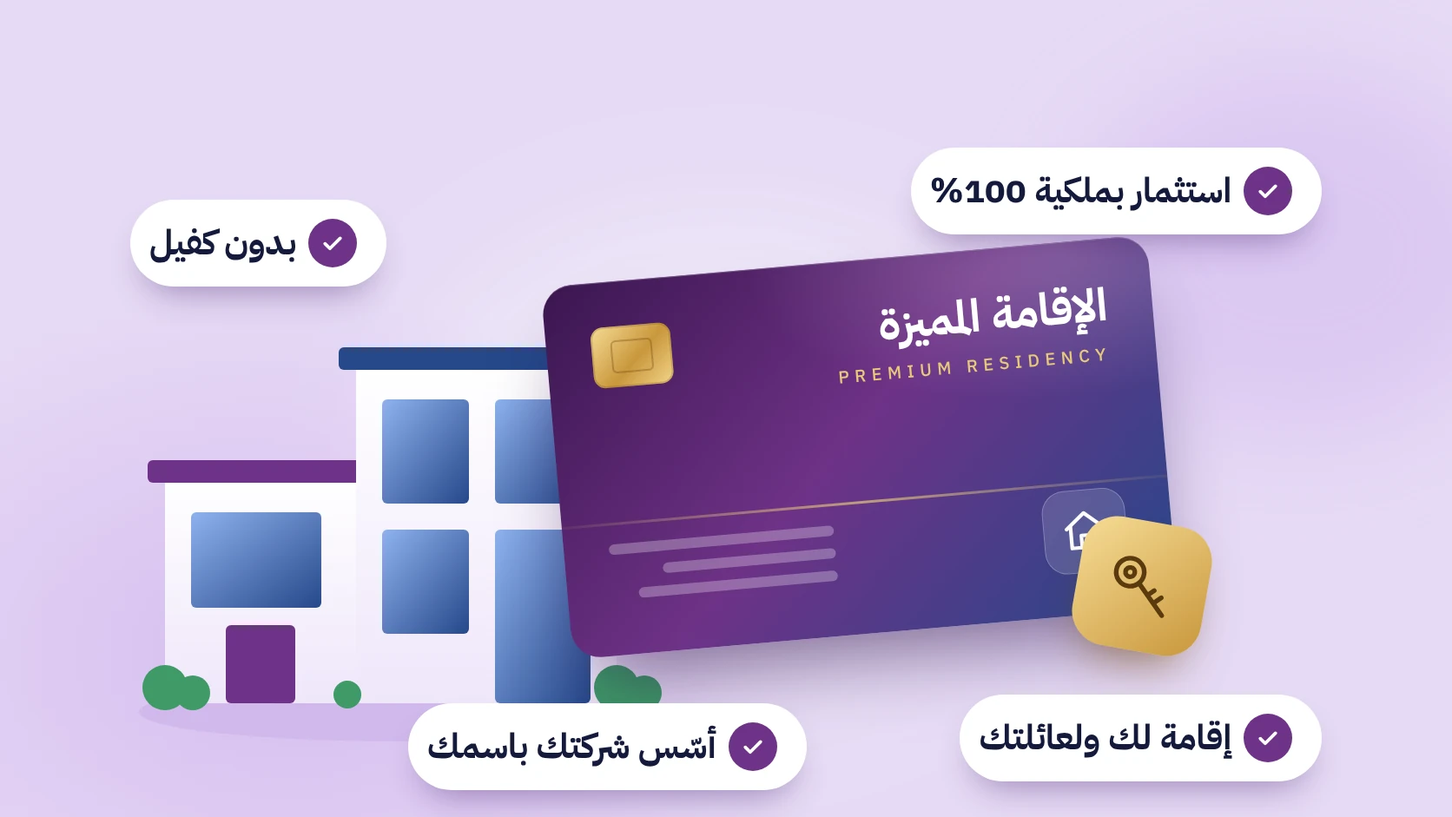
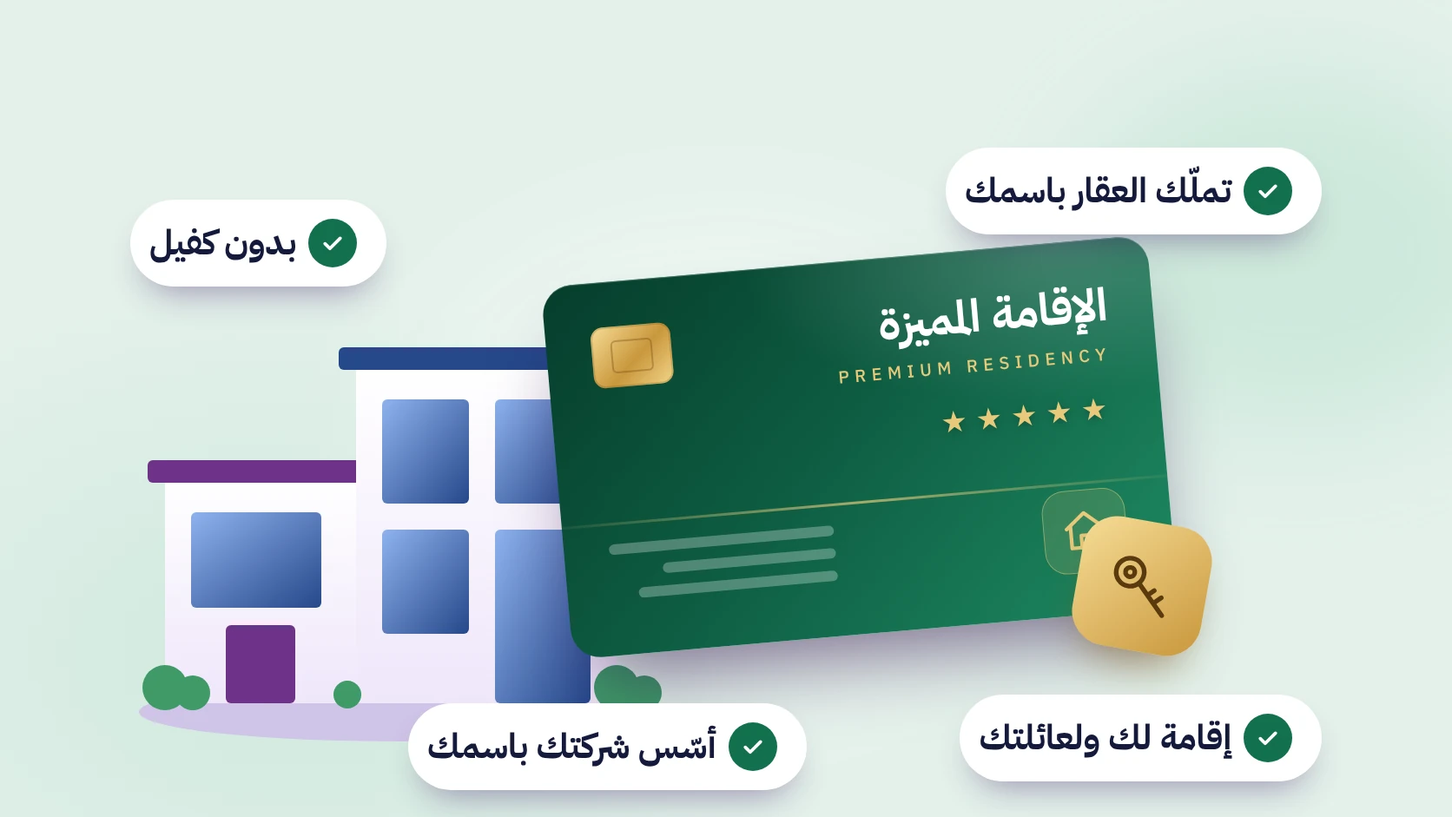
Premium Residency page: general audience, real benefits, green identity, file-review steps
Claude-Session: https://claude.ai/code/session_01NBvG3p8pHLfApGAyQMSkQa

diff --git a/pr/index.html b/pr/index.html
@@ -10,10 +10,10 @@ j=d.createElement(s),dl=l!='dataLayer'?'&l='+l:'';j.async=true;j.src=
 <!-- End Google Tag Manager -->
 <meta charset="utf-8">
 <meta name="viewport" content="width=device-width, initial-scale=1, viewport-fit=cover">
-<title>استثمر واحصل على الإقامة المميزة في السعودية | مرسى الأعمال</title>
+<title>الإقامة المميزة في السعودية لك ولعائلتك | مرسى الأعمال</title>
 <link rel="preload" as="image" href="../assets/img/hero-1600.webp" media="(min-width:721px)" fetchpriority="high">
 <link rel="preload" as="image" href="../assets/img/hero-mobile.webp" media="(max-width:720px)" fetchpriority="high">
-<meta name="description" content="استثمر في السعودية واحصل على الإقامة المميزة لك ولعائلتك: بدون كفيل، عبر الاستثمار وتأسيس شركتك بملكية أجنبية 100%. تحقّق من أهليتك مجانًا.">
+<meta name="description" content="احصل على الإقامة المميزة في السعودية لك ولعائلتك: عبر الاستثمار وتأسيس شركتك، أو مسار الكفاءات، أو دون استثمار. تحقّق من أهليتك مجانًا.">
 <meta name="theme-color" content="#26488A">
 <link rel="icon" href="../assets/img/fav.png">
 <link rel="preconnect" href="https://fonts.googleapis.com">
@@ -747,6 +747,10 @@ body.bar-on .wa-float{opacity:1;visibility:visible;transform:none}
 .cc-list .none{color:var(--muted);cursor:default;justify-content:center}
 .form-card .phone-row .cc-pick .cc-btn{width:auto;min-width:112px;padding:0 30px 0 12px;font-size:15px}
 
+.ftr .ftr-disc{max-width:none;margin:36px 0 0;padding:20px 0 0;border-top:1px solid rgba(255,255,255,.12);font-size:14px;line-height:1.9;color:rgba(255,255,255,.82)}
+.ftr-disc + .ftr-bottom{margin-top:20px}
+@media (max-width:720px){.ftr .ftr-disc{font-size:13px;text-align:center;margin-top:28px}}
+
 .hero-label{display:inline-block;background:rgba(255,255,255,.16);border:1px solid rgba(255,255,255,.4);-webkit-backdrop-filter:blur(6px);backdrop-filter:blur(6px);color:#fff;font-size:14px;font-weight:600;line-height:1.5;padding:7px 16px;border-radius:999px;margin-bottom:16px}
 @media (max-width:720px){.hero-label{order:1;align-self:center;font-size:12.5px;padding:6px 12px;margin-bottom:10px;text-align:center}}
 .hero h1 .hero-hl{font-style:normal;color:#fff;margin-top:10px;text-shadow:none;padding:.04em .45em .16em}
@@ -754,6 +758,9 @@ body.bar-on .wa-float{opacity:1;visibility:visible;transform:none}
 .hero h1 .hero-top .hero-hl{margin-top:0}
 .pr-grid{display:grid;grid-template-columns:repeat(4,minmax(0,1fr));gap:18px}
 .pr-grid .why-card h3{margin-top:14px;font-size:18px}
+.pr-ben .pr-grid{grid-template-columns:repeat(3,minmax(0,1fr))}
+@media (max-width:1000px){.pr-ben .pr-grid{grid-template-columns:repeat(2,minmax(0,1fr))}}
+@media (max-width:720px){.pr-ben .pr-grid{grid-template-columns:minmax(0,1fr)}}
 .pr-ben .why-card{background:#fff;border:1px solid var(--line);padding:30px 26px;box-shadow:0 24px 50px -40px rgba(20,26,60,.4)}
 .pr-grid .why-card p{font-size:15px}
 .pr-ic{width:48px;height:48px;border-radius:14px;background:var(--lav-2);display:grid;place-items:center;color:var(--purple)}
@@ -780,12 +787,15 @@ body.bar-on .wa-float{opacity:1;visibility:visible;transform:none}
 @media (max-width:720px){.cmp{margin-top:26px;border-radius:18px}.cmp-r{grid-template-columns:1fr 1fr}.cmp-k{grid-column:1/-1;padding:14px 16px 4px!important;background:#fff}.cmp-r>div{padding:10px 14px 14px;font-size:14px}.cmp-h .cmp-k{display:none}.cmp-h>div{padding:12px 14px;font-size:14px}}
 @media (max-width:1000px){.pr-grid{grid-template-columns:repeat(2,minmax(0,1fr))}}
 @media (max-width:720px){.pr-grid{grid-template-columns:minmax(0,1fr);gap:12px}}
-
-.ftr .ftr-disc{max-width:none;margin:36px 0 0;padding:20px 0 0;border-top:1px solid rgba(255,255,255,.12);font-size:14px;line-height:1.9;color:rgba(255,255,255,.82)}
-.ftr-disc + .ftr-bottom{margin-top:20px}
-@media (max-width:720px){.ftr .ftr-disc{font-size:13px;text-align:center;margin-top:28px}}
+/* PR green identity */
+.hl{background:linear-gradient(135deg,#1E8A62 0%,#0E5C42 100%)!important;box-shadow:0 12px 26px -14px rgba(14,92,66,.7)!important}
+.eyebrow{color:#13704F}
+.pr-ic{background:#E3F3EC!important;color:#13704F!important}
+.cmp-h .cmp-p{background:#13704F!important;color:#fff!important}
+.cmp-p{color:#0E5C42!important;background:rgba(227,243,236,.6)!important}
+.cmp-p .mk{background:#13704F!important}
 </style>
-<script type="application/ld+json">{"@context": "https://schema.org", "@type": "FAQPage", "mainEntity": [{"@type": "Question", "name": "ما هي الإقامة المميزة في السعودية؟", "acceptedAnswer": {"@type": "Answer", "text": "نظام إقامة يمنح المستثمر وعائلته الإقامة في المملكة دون كفيل، مع مزايا مثل الإعفاء من المقابل المالي للمرافقين، والخروج والعودة دون تأشيرة، وحرية ممارسة الأعمال والاستثمار."}}, {"@type": "Question", "name": "ما الفرق بينها وبين الإقامة العادية؟", "acceptedAnswer": {"@type": "Answer", "text": "في الإقامة العادية تحتاج إلى كفيل، وتدفع المقابل المالي عن مرافقيك، وتستخرج تأشيرة خروج وعودة لكل سفرة. أما الإقامة المميزة فتعفيك من كل ذلك، وتمنحك حرية تغيير العمل وممارسة أعمالك واستثمارك."}}, {"@type": "Question", "name": "كيف أحصل على الإقامة المميزة عن طريق تأسيس شركة؟", "acceptedAnswer": {"@type": "Answer", "text": "تستثمر وتؤسس شركتك في المملكة بملكية أجنبية 100%، ومع تحقيق شروط مسار المستثمر تصبح مؤهلًا للإقامة المميزة لك ولعائلتك. نرافقك من دراسة الاستثمار وتأسيس الشركة حتى صدور الإقامة."}}, {"@type": "Question", "name": "ما شروط الإقامة المميزة عن طريق الاستثمار؟", "acceptedAnswer": {"@type": "Answer", "text": "من أبرزها: استثمار فعلي في شركتك داخل المملكة وفق الحد الأدنى للمسار، وتوفير وظائف خلال أول سنتين من التشغيل، وإثبات الملاءة المالية، وجواز سفر ساري. يوضح لك مستشارك التفاصيل حسب حالتك."}}, {"@type": "Question", "name": "هل يمكنني تأسيس شركة بالإقامة المميزة؟", "acceptedAnswer": {"@type": "Answer", "text": "نعم. تمنحك الإقامة المميزة حق ممارسة الأعمال والاستثمار في المملكة وفق نظام الاستثمار، دون كفيل. ونساعدك في تأسيس شركتك بعد حصولك على الإقامة."}}, {"@type": "Question", "name": "كم رسوم الإقامة المميزة؟", "acceptedAnswer": {"@type": "Answer", "text": "تختلف الرسوم حسب المسار وحجم الاستثمار، ويوضحها لك مستشارك بعد تقييم حالتك."}}, {"@type": "Question", "name": "هل تشمل الإقامة أفراد عائلتي؟", "acceptedAnswer": {"@type": "Answer", "text": "نعم. تشمل الزوج/الزوجة والأبناء دون 25 عامًا والوالدين، وفق الشروط المعمول بها."}}, {"@type": "Question", "name": "هل يمكنني البدء وأنا خارج السعودية؟", "acceptedAnswer": {"@type": "Answer", "text": "نعم. نقيّم أهليتك عن بُعد من أي دولة، ونوضح لك المسار والمستندات المطلوبة قبل أي التزام."}}, {"@type": "Question", "name": "هل الموافقة مضمونة؟", "acceptedAnswer": {"@type": "Answer", "text": "قرار الموافقة لدى مركز الإقامة المميزة. دورنا أن نقيّم أهليتك بدقة، ونجهز ملفًا مكتملًا، ونتابعه حتى صدور القرار."}}]}</script>
+<script type="application/ld+json">{"@context": "https://schema.org", "@type": "FAQPage", "mainEntity": [{"@type": "Question", "name": "ما هي الإقامة المميزة في السعودية؟", "acceptedAnswer": {"@type": "Answer", "text": "نظام إقامة يكون فيه مركز الإقامة المميزة هو المرجع بدلًا من كفيل فرد أو شركة، ويمنحك مزايا مثل الإعفاء من المقابل المالي للمرافقين، والسفر دون تأشيرة خروج وعودة، وحق تملّك العقار، والسماح لأفراد أسرتك بالعمل."}}, {"@type": "Question", "name": "هل يجب أن أكون مستثمرًا للحصول على الإقامة المميزة؟", "acceptedAnswer": {"@type": "Answer", "text": "لا. أغلب عملائنا يحصلون عليها عبر الاستثمار وتأسيس شركاتهم، لكن هناك مسارات أخرى مثل الكفاءات الاستثنائية، ومسارات لا تتطلب استثمارًا. نقيّم ملفك ونحدد المسار الأنسب لك."}}, {"@type": "Question", "name": "ما الفرق بينها وبين الإقامة العادية؟", "acceptedAnswer": {"@type": "Answer", "text": "في الإقامة العادية تحتاج إلى كفيل، وتدفع المقابل المالي عن مرافقيك، وتحتاج إلى تأشيرة خروج وعودة بمدة محددة، ولا يُسمح لأفراد أسرتك بالعمل. أما الإقامة المميزة فتعفيك من كل ذلك، وتمنحك حرية تغيير العمل وتملّك العقار وممارسة أعمالك."}}, {"@type": "Question", "name": "هل يمكنني تملّك العقار بالإقامة المميزة؟", "acceptedAnswer": {"@type": "Answer", "text": "نعم. من أهم مزايا الإقامة المميزة حق تملّك العقار والانتفاع به في المملكة باسمك، وفق الأنظمة والمناطق المسموح بها."}}, {"@type": "Question", "name": "كيف أحصل على الإقامة المميزة عن طريق تأسيس شركة؟", "acceptedAnswer": {"@type": "Answer", "text": "تستثمر وتؤسس شركتك في المملكة بملكية أجنبية 100%، ومع تحقيق شروط مسار المستثمر تصبح مؤهلًا للإقامة المميزة لك ولعائلتك. نرافقك من دراسة الاستثمار وتأسيس الشركة حتى صدور الإقامة."}}, {"@type": "Question", "name": "ما شروط الإقامة المميزة عن طريق الاستثمار؟", "acceptedAnswer": {"@type": "Answer", "text": "من أبرزها: استثمار فعلي في شركتك داخل المملكة وفق الحد الأدنى للمسار، وتوفير وظائف خلال أول سنتين من التشغيل، وإثبات الملاءة المالية، وجواز سفر ساري. يوضح لك مستشارك التفاصيل حسب حالتك."}}, {"@type": "Question", "name": "هل يمكنني تأسيس شركة بالإقامة المميزة؟", "acceptedAnswer": {"@type": "Answer", "text": "نعم. تمنحك الإقامة المميزة حق ممارسة الأعمال والاستثمار في المملكة وفق نظام الاستثمار، دون كفيل. ونساعدك في تأسيس شركتك بعد حصولك على الإقامة."}}, {"@type": "Question", "name": "كم رسوم الإقامة المميزة؟", "acceptedAnswer": {"@type": "Answer", "text": "تختلف الرسوم حسب المسار وحجم الاستثمار، ويوضحها لك مستشارك بعد تقييم حالتك."}}, {"@type": "Question", "name": "هل تشمل الإقامة أفراد عائلتي؟", "acceptedAnswer": {"@type": "Answer", "text": "نعم. تشمل الزوج/الزوجة والأبناء دون 25 عامًا والوالدين، وفق الشروط المعمول بها."}}, {"@type": "Question", "name": "هل يمكنني البدء وأنا خارج السعودية؟", "acceptedAnswer": {"@type": "Answer", "text": "نعم. نقيّم أهليتك عن بُعد من أي دولة، ونوضح لك المسار والمستندات المطلوبة قبل أي التزام."}}, {"@type": "Question", "name": "هل الموافقة مضمونة؟", "acceptedAnswer": {"@type": "Answer", "text": "قرار الموافقة لدى مركز الإقامة المميزة. دورنا أن نقيّم أهليتك بدقة، ونجهز ملفًا مكتملًا، ونتابعه حتى صدور القرار."}}]}</script>
 </head>
 <body>
 <!-- Google Tag Manager (noscript) -->
@@ -868,8 +878,8 @@ height="0" width="0" style="display:none;visibility:hidden"></iframe></noscript>
     </picture>
     <div class="wrap hero-in">
       <div class="hero-copy">
-        <h1 id="hero-t" class="h-in a2"><span class="hero-top"><em class="hl hero-hl">حصريًا للمستثمرين</em></span>إقامتك المميزة في السعودية<span>لك ولعائلتك بدون كفيل</span></h1>
-        <p class="hero-desc h-in a3">استثمر وأسّس شركتك في السعودية، واحصل على الإقامة المميزة لك ولعائلتك.</p>
+        <h1 id="hero-t" class="h-in a2"><span class="hero-top"><em class="hl hero-hl">لك ولعائلتك</em></span>إقامتك المميزة في السعودية<span>بمزايا لا تمنحها الإقامة العادية</span></h1>
+        <p class="hero-desc h-in a3">عبر الاستثمار وتأسيس شركتك، أو مسار الكفاءات، أو دون استثمار. نقيّم ملفك ونرافقك حتى صدور الإقامة.</p>
         <div class="hero-ctas h-in a4">
           <a class="btn btn-cta js-cta" href="#" data-target="#hero-form"><svg class="ic wa-ic" viewBox="0 0 24 24"><use href="#i-wa"/></svg><span>تحقّق من أهليتك</span></a>
         </div>
@@ -885,7 +895,7 @@ height="0" width="0" style="display:none;visibility:hidden"></iframe></noscript>
               <input class="inp num" id="h-phone" name="phone" type="tel" inputmode="tel" autocomplete="tel-national" placeholder="5X XXX XXXX" data-v required>
             </div><span class="err-msg" role="alert"></span></div>
           <div class="field"><label for="h-email">البريد الإلكتروني<b>*</b></label><input class="inp email" id="h-email" name="email" type="email" inputmode="email" autocomplete="email" placeholder="example@email.com" data-v required><span class="err-msg" role="alert"></span></div>
-          <div class="field"><label for="h-biz">مسار الإقامة الذي يهمك</label><input class="inp" id="h-biz" name="business" type="text" placeholder="نوع النشاط أو الاستثمار الذي يهمك"></div>
+          <div class="field"><label for="h-biz">مسار الإقامة الذي يهمك</label><input class="inp" id="h-biz" name="business" type="text" placeholder="استثمار، كفاءات، دون استثمار…"></div>
         </div>
         <button class="btn btn-primary btn-block submit" type="submit">سجل الآن <svg class="ic arr"><use href="#i-arr"/></svg><span class="spin"></span></button>
         <p class="privacy"><svg class="ic"><use href="#i-lock"/></svg>سيتم استخدام بياناتك للتواصل معك بخصوص طلبك فقط.</p>
@@ -913,7 +923,7 @@ height="0" width="0" style="display:none;visibility:hidden"></iframe></noscript>
     <div class="sec-head">
       <h2 class="h2 rv d1" id="ess-t">الإقامة العادية <span class="hl">أم الإقامة المميزة؟</span></h2>
     </div>
-    <div class="cmp rv d2"><div class="cmp-r cmp-h"><div class="cmp-k"></div><div class="cmp-n">الإقامة العادية</div><div class="cmp-p">الإقامة المميزة</div></div><div class="cmp-r"><div class="cmp-k">الكفيل</div><div class="cmp-n"><span class="mk">&times;</span>تحتاج إلى كفيل</div><div class="cmp-p"><span class="mk"><svg class="ic"><use href="#i-check"/></svg></span>لا كفيل، أنت كفيل نفسك</div></div><div class="cmp-r"><div class="cmp-k">الإقامة مرتبطة بـ</div><div class="cmp-n"><span class="mk">&times;</span>صاحب العمل</div><div class="cmp-p"><span class="mk"><svg class="ic"><use href="#i-check"/></svg></span>استثمارك أنت</div></div><div class="cmp-r"><div class="cmp-k">المقابل المالي للمرافقين</div><div class="cmp-n"><span class="mk">&times;</span>رسوم شهرية عن كل مرافق</div><div class="cmp-p"><span class="mk"><svg class="ic"><use href="#i-check"/></svg></span>معفى منه بالكامل</div></div><div class="cmp-r"><div class="cmp-k">السفر</div><div class="cmp-n"><span class="mk">&times;</span>تأشيرة خروج وعودة لكل سفرة</div><div class="cmp-p"><span class="mk"><svg class="ic"><use href="#i-check"/></svg></span>خروج وعودة دون تأشيرة</div></div><div class="cmp-r"><div class="cmp-k">تغيير العمل</div><div class="cmp-n"><span class="mk">&times;</span>يتطلب نقل الكفالة</div><div class="cmp-p"><span class="mk"><svg class="ic"><use href="#i-check"/></svg></span>حرية التنقل بين جهات العمل</div></div><div class="cmp-r"><div class="cmp-k">ممارسة الأعمال</div><div class="cmp-n"><span class="mk">&times;</span>غير متاحة بالإقامة وحدها</div><div class="cmp-p"><span class="mk"><svg class="ic"><use href="#i-check"/></svg></span>تأسيس شركتك وممارسة أعمالك</div></div><div class="cmp-r"><div class="cmp-k">التجديد</div><div class="cmp-n"><span class="mk">&times;</span>تجديد دوري للإقامة</div><div class="cmp-p"><span class="mk"><svg class="ic"><use href="#i-check"/></svg></span>إقامة دائمة دون تجديد في المسار الدائم</div></div></div>
+    <div class="cmp rv d2"><div class="cmp-r cmp-h"><div class="cmp-k"></div><div class="cmp-n">الإقامة العادية</div><div class="cmp-p">الإقامة المميزة</div></div><div class="cmp-r"><div class="cmp-k">الكفيل</div><div class="cmp-n"><span class="mk">&times;</span>كفيل فرد أو شركة</div><div class="cmp-p"><span class="mk"><svg class="ic"><use href="#i-check"/></svg></span>مركز الإقامة المميزة، دون كفيل فرد</div></div><div class="cmp-r"><div class="cmp-k">المقابل المالي للمرافقين</div><div class="cmp-n"><span class="mk">&times;</span>رسوم شهرية عن كل مرافق</div><div class="cmp-p"><span class="mk"><svg class="ic"><use href="#i-check"/></svg></span>معفى منه بالكامل</div></div><div class="cmp-r"><div class="cmp-k">السفر</div><div class="cmp-n"><span class="mk">&times;</span>تأشيرة خروج وعودة بمدة محددة</div><div class="cmp-p"><span class="mk"><svg class="ic"><use href="#i-check"/></svg></span>خروج وعودة دون تأشيرة ودون مدة محددة</div></div><div class="cmp-r"><div class="cmp-k">عمل أفراد الأسرة</div><div class="cmp-n"><span class="mk">&times;</span>غير مسموح</div><div class="cmp-p"><span class="mk"><svg class="ic"><use href="#i-check"/></svg></span>مسموح لأفراد الأسرة بالعمل</div></div><div class="cmp-r"><div class="cmp-k">تغيير العمل</div><div class="cmp-n"><span class="mk">&times;</span>يتطلب نقل الكفالة</div><div class="cmp-p"><span class="mk"><svg class="ic"><use href="#i-check"/></svg></span>حرية التنقل بين جهات العمل</div></div><div class="cmp-r"><div class="cmp-k">تملّك العقار</div><div class="cmp-n"><span class="mk">&times;</span>محدود وبشروط</div><div class="cmp-p"><span class="mk"><svg class="ic"><use href="#i-check"/></svg></span>تملّك العقار باسمك</div></div><div class="cmp-r"><div class="cmp-k">ممارسة الأعمال</div><div class="cmp-n"><span class="mk">&times;</span>غير متاحة بالإقامة وحدها</div><div class="cmp-p"><span class="mk"><svg class="ic"><use href="#i-check"/></svg></span>تأسيس شركتك وممارسة أعمالك</div></div><div class="cmp-r"><div class="cmp-k">التجديد</div><div class="cmp-n"><span class="mk">&times;</span>تجديد دوري للإقامة</div><div class="cmp-p"><span class="mk"><svg class="ic"><use href="#i-check"/></svg></span>إقامة دائمة دون تجديد في المسار الدائم</div></div></div>
     <div class="pr-cta rv"><a class="btn btn-cta js-cta" href="#" data-target="#contact"><svg class="ic wa-ic" viewBox="0 0 24 24"><use href="#i-wa"/></svg><span>تحدّث مع مستشار</span></a></div>
   </div>
 </section>
@@ -925,7 +935,7 @@ height="0" width="0" style="display:none;visibility:hidden"></iframe></noscript>
     <div class="sec-head">
       <h2 class="h2 rv d1" id="ben-t">ماذا تمنحك <span class="hl">الإقامة المميزة</span>؟</h2>
     </div>
-    <div class="pr-grid"><div class="why-card rv d1"><span class="pr-ic"><svg class="ic"><use href="#i-award"/></svg></span><h3>إقامة بدون كفيل</h3><p>أنت كفيل نفسك، مع حرية التنقل بين جهات العمل.</p></div><div class="why-card rv d2"><span class="pr-ic"><svg class="ic"><use href="#i-bld"/></svg></span><h3>إقامة مرتبطة باستثمارك</h3><p>إقامتك مرتبطة بشركتك واستثمارك أنت، لا بصاحب عمل.</p></div><div class="why-card rv d3"><span class="pr-ic"><svg class="ic"><use href="#i-trend"/></svg></span><h3>أسّس شركتك ومارس أعمالك</h3><p>حق ممارسة الأعمال والاستثمار في المملكة وفق نظام الاستثمار.</p></div><div class="why-card rv d4"><span class="pr-ic"><svg class="ic"><use href="#i-life"/></svg></span><h3>عائلتك معك بلا رسوم</h3><p>إقامة للزوج والأبناء والوالدين، مع الإعفاء من المقابل المالي للمرافقين.</p></div></div>
+    <div class="pr-grid"><div class="why-card rv d1"><span class="pr-ic"><svg class="ic"><use href="#i-award"/></svg></span><h3>إقامة دون كفيل فرد أو شركة</h3><p>إقامتك تحت مظلة مركز الإقامة المميزة، مع حرية التنقل بين جهات العمل.</p></div><div class="why-card rv d2"><span class="pr-ic"><svg class="ic"><use href="#i-bld"/></svg></span><h3>تملّك العقار باسمك</h3><p>حق تملّك العقار والانتفاع به في المملكة باسمك مباشرة.</p></div><div class="why-card rv d3"><span class="pr-ic"><svg class="ic"><use href="#i-globe"/></svg></span><h3>سفر وإقامة خارج المملكة بحرية</h3><p>خروج وعودة دون تأشيرة، وبقاء خارج المملكة للمدة التي تريدها دون مدة محددة.</p></div><div class="why-card rv d4"><span class="pr-ic"><svg class="ic"><use href="#i-life"/></svg></span><h3>عائلتك تعمل في المملكة</h3><p>يُسمح لأفراد أسرتك بالعمل في المملكة، بخلاف الإقامة العادية.</p></div><div class="why-card rv d1"><span class="pr-ic"><svg class="ic"><use href="#i-trend"/></svg></span><h3>أسّس شركتك ومارس أعمالك</h3><p>حق ممارسة الأعمال والاستثمار في المملكة وفق نظام الاستثمار.</p></div><div class="why-card rv d2"><span class="pr-ic"><svg class="ic"><use href="#i-shield"/></svg></span><h3>عائلتك معك بلا رسوم</h3><p>إقامة للزوج والأبناء والوالدين، مع الإعفاء من المقابل المالي للمرافقين.</p></div></div>
     <div class="pr-cta rv"><a class="btn btn-cta js-cta" href="#" data-target="#contact"><svg class="ic wa-ic" viewBox="0 0 24 24"><use href="#i-wa"/></svg><span>تحقّق من أهليتك</span></a></div>
   </div>
 </section>
@@ -955,7 +965,7 @@ height="0" width="0" style="display:none;visibility:hidden"></iframe></noscript>
   <div class="wrap">
     <div class="why-head">
       <div><span class="eyebrow rv">الاستثمار والإقامة</span><h2 class="h2 rv d1" id="why-t">استثمر، أسّس شركتك، <span class="hl">واحصل على الإقامة</span></h2></div>
-      <p class="lead rv d2">ثلاث خطوات مترابطة: استثمارك يبدأ بتأسيس شركتك، وشركتك هي طريقك إلى الإقامة المميزة.</p>
+      <p class="lead rv d2">أغلب عملائنا يحصلون على الإقامة المميزة عبر الاستثمار وتأسيس شركاتهم، وتتوفر أيضًا مسارات للكفاءات الاستثنائية ودون استثمار.</p>
     </div>
     <div class="bento">
       <div class="wf rv">
@@ -985,14 +995,14 @@ height="0" width="0" style="display:none;visibility:hidden"></iframe></noscript>
     <div class="sec-head">
       <span class="eyebrow on-dark rv">رحلتك معنا</span>
       <h2 class="h2 rv d1" id="steps-t">مراحل حصولك على <span class="hl">الإقامة المميزة</span></h2>
-      <p class="lead rv d2">أربع خطوات واضحة، من دراسة استثمارك وتأسيس شركتك حتى استلام إقامتك.</p>
+      <p class="lead rv d2">أربع خطوات واضحة، من دراسة ملفك حتى استلام إقامتك.</p>
     </div>
     <ol class="tl" id="tl">
       <li class="tl-line" aria-hidden="true"><span class="tl-fill" id="tlFill"></span></li>
-      <li class="step a"><span class="step-dot">01</span><div class="step-card rv"><span class="k">الخطوة 01</span><h3>دراسة الاستثمار</h3><p>نتعرف على أهدافك ونحدد النشاط وخطة الاستثمار التي تحقق شروط إقامة المستثمر.</p></div></li>
-      <li class="step b"><span class="step-dot">02</span><div class="step-card rv"><span class="k">الخطوة 02</span><h3>تأسيس شركتك</h3><p>نؤسس شركتك في المملكة بملكية أجنبية 100% ونجهزها لبدء التشغيل.</p></div></li>
-      <li class="step a"><span class="step-dot">03</span><div class="step-card rv"><span class="k">الخطوة 03</span><h3>تجهيز ملف الإقامة</h3><p>نجهز ملفك ونقدّم طلب الإقامة المميزة ونتابعه حتى صدور القرار.</p></div></li>
-      <li class="step b last"><span class="step-dot"><svg class="ic"><use href="#i-check"/></svg></span><div class="step-card rv"><span class="k">الخطوة 04</span><h3>الإقامة وتنمية استثمارك</h3><p>تستلم إقامتك لك ولعائلتك، ونستمر معك في نمو شركتك داخل المملكة.</p></div></li>
+      <li class="step a"><span class="step-dot">01</span><div class="step-card rv"><span class="k">الخطوة 01</span><h3>دراسة الملف وتقييمه</h3><p>نراجع ملفك ونحدد المسار الأنسب لك: الاستثمار وتأسيس الشركة، أو الكفاءات، أو الإقامة دون استثمار.</p></div></li>
+      <li class="step b"><span class="step-dot">02</span><div class="step-card rv"><span class="k">الخطوة 02</span><h3>تجهيز الملف</h3><p>نجهز معك المستندات والمتطلبات الخاصة بمسارك.</p></div></li>
+      <li class="step a"><span class="step-dot">03</span><div class="step-card rv"><span class="k">الخطوة 03</span><h3>تقديم الطلب ومتابعته</h3><p>نقدّم طلبك لدى مركز الإقامة المميزة ونتابعه خطوة بخطوة حتى صدور القرار.</p></div></li>
+      <li class="step b last"><span class="step-dot"><svg class="ic"><use href="#i-check"/></svg></span><div class="step-card rv"><span class="k">الخطوة 04</span><h3>استلام الإقامة</h3><p>تستلم إقامتك وتضيف أفراد عائلتك، وتبدأ الاستفادة من مزاياها.</p></div></li>
     </ol>
     <div class="steps-cta rv"><a class="btn btn-cta js-cta" href="#" data-target="#contact"><svg class="ic wa-ic" viewBox="0 0 24 24"><use href="#i-wa"/></svg><span>تحقّق من أهليتك</span></a></div>
   </div>
@@ -1259,7 +1269,7 @@ height="0" width="0" style="display:none;visibility:hidden"></iframe></noscript>
     <div>
       <span class="eyebrow rv">ابدأ رحلتك</span>
       <h2 id="final-t" class="rv d1"><span>استثمارك.</span><span>إقامتك.</span><span class="p">نرسم لك الطريق.</span></h2>
-      <p class="lead rv d2">من تأسيس شركتك حتى استلام إقامتك المميزة. أخبرنا عن هدفك، ويتواصل معك أحد مستشارينا.</p>
+      <p class="lead rv d2">من دراسة ملفك حتى استلام إقامتك المميزة. أخبرنا عن هدفك، ويتواصل معك أحد مستشارينا.</p>
       <div class="alts rv d3">
         <a class="btn btn-cta js-wa" href="#"><svg class="ic wa-ic" viewBox="0 0 24 24"><use href="#i-wa"/></svg><span>تواصل معنا عبر واتساب</span></a>
       </div>
@@ -1275,7 +1285,7 @@ height="0" width="0" style="display:none;visibility:hidden"></iframe></noscript>
               <input class="inp num" id="f-phone" name="phone" type="tel" inputmode="tel" autocomplete="tel-national" placeholder="5X XXX XXXX" data-v required>
             </div><span class="err-msg" role="alert"></span></div>
           <div class="field"><label for="f-email">البريد الإلكتروني<b>*</b></label><input class="inp email" id="f-email" name="email" type="email" inputmode="email" autocomplete="email" placeholder="example@email.com" data-v required><span class="err-msg" role="alert"></span></div>
-          <div class="field"><label for="f-biz">مسار الإقامة الذي يهمك</label><input class="inp" id="f-biz" name="business" type="text" placeholder="نوع النشاط أو الاستثمار الذي يهمك"></div>
+          <div class="field"><label for="f-biz">مسار الإقامة الذي يهمك</label><input class="inp" id="f-biz" name="business" type="text" placeholder="استثمار، كفاءات، دون استثمار…"></div>
         </div>
         <button class="btn btn-primary btn-block submit" type="submit">سجل الآن <svg class="ic arr"><use href="#i-arr"/></svg><span class="spin"></span></button>
         <p class="privacy"><svg class="ic"><use href="#i-lock"/></svg>سيتم استخدام بياناتك للتواصل معك بخصوص طلبك فقط.</p>
@@ -1298,15 +1308,17 @@ height="0" width="0" style="display:none;visibility:hidden"></iframe></noscript>
       </div>
     </div>
     <div class="faq-list rv d1" id="faqList">
-<div class="qa open"><button class="q" type="button" aria-expanded="true" aria-controls="fa0">ما هي الإقامة المميزة في السعودية؟<span class="pm"><svg class="ic"><use href="#i-plus"/></svg></span></button><div class="a-wrap" id="fa0"><div class="a-in"><p class="a">نظام إقامة يمنح المستثمر وعائلته الإقامة في المملكة دون كفيل، مع مزايا مثل الإعفاء من المقابل المالي للمرافقين، والخروج والعودة دون تأشيرة، وحرية ممارسة الأعمال والاستثمار.</p></div></div></div>
-<div class="qa"><button class="q" type="button" aria-expanded="false" aria-controls="fa1">ما الفرق بينها وبين الإقامة العادية؟<span class="pm"><svg class="ic"><use href="#i-plus"/></svg></span></button><div class="a-wrap" id="fa1"><div class="a-in"><p class="a">في الإقامة العادية تحتاج إلى كفيل، وتدفع المقابل المالي عن مرافقيك، وتستخرج تأشيرة خروج وعودة لكل سفرة. أما الإقامة المميزة فتعفيك من كل ذلك، وتمنحك حرية تغيير العمل وممارسة أعمالك واستثمارك.</p></div></div></div>
-<div class="qa"><button class="q" type="button" aria-expanded="false" aria-controls="fa2">كيف أحصل على الإقامة المميزة عن طريق تأسيس شركة؟<span class="pm"><svg class="ic"><use href="#i-plus"/></svg></span></button><div class="a-wrap" id="fa2"><div class="a-in"><p class="a">تستثمر وتؤسس شركتك في المملكة بملكية أجنبية 100%، ومع تحقيق شروط مسار المستثمر تصبح مؤهلًا للإقامة المميزة لك ولعائلتك. نرافقك من دراسة الاستثمار وتأسيس الشركة حتى صدور الإقامة.</p></div></div></div>
-<div class="qa"><button class="q" type="button" aria-expanded="false" aria-controls="fa3">ما شروط الإقامة المميزة عن طريق الاستثمار؟<span class="pm"><svg class="ic"><use href="#i-plus"/></svg></span></button><div class="a-wrap" id="fa3"><div class="a-in"><p class="a">من أبرزها: استثمار فعلي في شركتك داخل المملكة وفق الحد الأدنى للمسار، وتوفير وظائف خلال أول سنتين من التشغيل، وإثبات الملاءة المالية، وجواز سفر ساري. يوضح لك مستشارك التفاصيل حسب حالتك.</p></div></div></div>
-<div class="qa"><button class="q" type="button" aria-expanded="false" aria-controls="fa4">هل يمكنني تأسيس شركة بالإقامة المميزة؟<span class="pm"><svg class="ic"><use href="#i-plus"/></svg></span></button><div class="a-wrap" id="fa4"><div class="a-in"><p class="a">نعم. تمنحك الإقامة المميزة حق ممارسة الأعمال والاستثمار في المملكة وفق نظام الاستثمار، دون كفيل. ونساعدك في تأسيس شركتك بعد حصولك على الإقامة.</p></div></div></div>
-<div class="qa"><button class="q" type="button" aria-expanded="false" aria-controls="fa5">كم رسوم الإقامة المميزة؟<span class="pm"><svg class="ic"><use href="#i-plus"/></svg></span></button><div class="a-wrap" id="fa5"><div class="a-in"><p class="a">تختلف الرسوم حسب المسار وحجم الاستثمار، ويوضحها لك مستشارك بعد تقييم حالتك.</p></div></div></div>
-<div class="qa"><button class="q" type="button" aria-expanded="false" aria-controls="fa6">هل تشمل الإقامة أفراد عائلتي؟<span class="pm"><svg class="ic"><use href="#i-plus"/></svg></span></button><div class="a-wrap" id="fa6"><div class="a-in"><p class="a">نعم. تشمل الزوج/الزوجة والأبناء دون 25 عامًا والوالدين، وفق الشروط المعمول بها.</p></div></div></div>
-<div class="qa"><button class="q" type="button" aria-expanded="false" aria-controls="fa7">هل يمكنني البدء وأنا خارج السعودية؟<span class="pm"><svg class="ic"><use href="#i-plus"/></svg></span></button><div class="a-wrap" id="fa7"><div class="a-in"><p class="a">نعم. نقيّم أهليتك عن بُعد من أي دولة، ونوضح لك المسار والمستندات المطلوبة قبل أي التزام.</p></div></div></div>
-<div class="qa"><button class="q" type="button" aria-expanded="false" aria-controls="fa8">هل الموافقة مضمونة؟<span class="pm"><svg class="ic"><use href="#i-plus"/></svg></span></button><div class="a-wrap" id="fa8"><div class="a-in"><p class="a">قرار الموافقة لدى مركز الإقامة المميزة. دورنا أن نقيّم أهليتك بدقة، ونجهز ملفًا مكتملًا، ونتابعه حتى صدور القرار.</p></div></div></div>
+<div class="qa open"><button class="q" type="button" aria-expanded="true" aria-controls="fa0">ما هي الإقامة المميزة في السعودية؟<span class="pm"><svg class="ic"><use href="#i-plus"/></svg></span></button><div class="a-wrap" id="fa0"><div class="a-in"><p class="a">نظام إقامة يكون فيه مركز الإقامة المميزة هو المرجع بدلًا من كفيل فرد أو شركة، ويمنحك مزايا مثل الإعفاء من المقابل المالي للمرافقين، والسفر دون تأشيرة خروج وعودة، وحق تملّك العقار، والسماح لأفراد أسرتك بالعمل.</p></div></div></div>
+<div class="qa"><button class="q" type="button" aria-expanded="false" aria-controls="fa1">هل يجب أن أكون مستثمرًا للحصول على الإقامة المميزة؟<span class="pm"><svg class="ic"><use href="#i-plus"/></svg></span></button><div class="a-wrap" id="fa1"><div class="a-in"><p class="a">لا. أغلب عملائنا يحصلون عليها عبر الاستثمار وتأسيس شركاتهم، لكن هناك مسارات أخرى مثل الكفاءات الاستثنائية، ومسارات لا تتطلب استثمارًا. نقيّم ملفك ونحدد المسار الأنسب لك.</p></div></div></div>
+<div class="qa"><button class="q" type="button" aria-expanded="false" aria-controls="fa2">ما الفرق بينها وبين الإقامة العادية؟<span class="pm"><svg class="ic"><use href="#i-plus"/></svg></span></button><div class="a-wrap" id="fa2"><div class="a-in"><p class="a">في الإقامة العادية تحتاج إلى كفيل، وتدفع المقابل المالي عن مرافقيك، وتحتاج إلى تأشيرة خروج وعودة بمدة محددة، ولا يُسمح لأفراد أسرتك بالعمل. أما الإقامة المميزة فتعفيك من كل ذلك، وتمنحك حرية تغيير العمل وتملّك العقار وممارسة أعمالك.</p></div></div></div>
+<div class="qa"><button class="q" type="button" aria-expanded="false" aria-controls="fa3">هل يمكنني تملّك العقار بالإقامة المميزة؟<span class="pm"><svg class="ic"><use href="#i-plus"/></svg></span></button><div class="a-wrap" id="fa3"><div class="a-in"><p class="a">نعم. من أهم مزايا الإقامة المميزة حق تملّك العقار والانتفاع به في المملكة باسمك، وفق الأنظمة والمناطق المسموح بها.</p></div></div></div>
+<div class="qa"><button class="q" type="button" aria-expanded="false" aria-controls="fa4">كيف أحصل على الإقامة المميزة عن طريق تأسيس شركة؟<span class="pm"><svg class="ic"><use href="#i-plus"/></svg></span></button><div class="a-wrap" id="fa4"><div class="a-in"><p class="a">تستثمر وتؤسس شركتك في المملكة بملكية أجنبية 100%، ومع تحقيق شروط مسار المستثمر تصبح مؤهلًا للإقامة المميزة لك ولعائلتك. نرافقك من دراسة الاستثمار وتأسيس الشركة حتى صدور الإقامة.</p></div></div></div>
+<div class="qa"><button class="q" type="button" aria-expanded="false" aria-controls="fa5">ما شروط الإقامة المميزة عن طريق الاستثمار؟<span class="pm"><svg class="ic"><use href="#i-plus"/></svg></span></button><div class="a-wrap" id="fa5"><div class="a-in"><p class="a">من أبرزها: استثمار فعلي في شركتك داخل المملكة وفق الحد الأدنى للمسار، وتوفير وظائف خلال أول سنتين من التشغيل، وإثبات الملاءة المالية، وجواز سفر ساري. يوضح لك مستشارك التفاصيل حسب حالتك.</p></div></div></div>
+<div class="qa"><button class="q" type="button" aria-expanded="false" aria-controls="fa6">هل يمكنني تأسيس شركة بالإقامة المميزة؟<span class="pm"><svg class="ic"><use href="#i-plus"/></svg></span></button><div class="a-wrap" id="fa6"><div class="a-in"><p class="a">نعم. تمنحك الإقامة المميزة حق ممارسة الأعمال والاستثمار في المملكة وفق نظام الاستثمار، دون كفيل. ونساعدك في تأسيس شركتك بعد حصولك على الإقامة.</p></div></div></div>
+<div class="qa"><button class="q" type="button" aria-expanded="false" aria-controls="fa7">كم رسوم الإقامة المميزة؟<span class="pm"><svg class="ic"><use href="#i-plus"/></svg></span></button><div class="a-wrap" id="fa7"><div class="a-in"><p class="a">تختلف الرسوم حسب المسار وحجم الاستثمار، ويوضحها لك مستشارك بعد تقييم حالتك.</p></div></div></div>
+<div class="qa"><button class="q" type="button" aria-expanded="false" aria-controls="fa8">هل تشمل الإقامة أفراد عائلتي؟<span class="pm"><svg class="ic"><use href="#i-plus"/></svg></span></button><div class="a-wrap" id="fa8"><div class="a-in"><p class="a">نعم. تشمل الزوج/الزوجة والأبناء دون 25 عامًا والوالدين، وفق الشروط المعمول بها.</p></div></div></div>
+<div class="qa"><button class="q" type="button" aria-expanded="false" aria-controls="fa9">هل يمكنني البدء وأنا خارج السعودية؟<span class="pm"><svg class="ic"><use href="#i-plus"/></svg></span></button><div class="a-wrap" id="fa9"><div class="a-in"><p class="a">نعم. نقيّم أهليتك عن بُعد من أي دولة، ونوضح لك المسار والمستندات المطلوبة قبل أي التزام.</p></div></div></div>
+<div class="qa"><button class="q" type="button" aria-expanded="false" aria-controls="fa10">هل الموافقة مضمونة؟<span class="pm"><svg class="ic"><use href="#i-plus"/></svg></span></button><div class="a-wrap" id="fa10"><div class="a-in"><p class="a">قرار الموافقة لدى مركز الإقامة المميزة. دورنا أن نقيّم أهليتك بدقة، ونجهز ملفًا مكتملًا، ونتابعه حتى صدور القرار.</p></div></div></div>
     </div>
   </div>
 </section>
